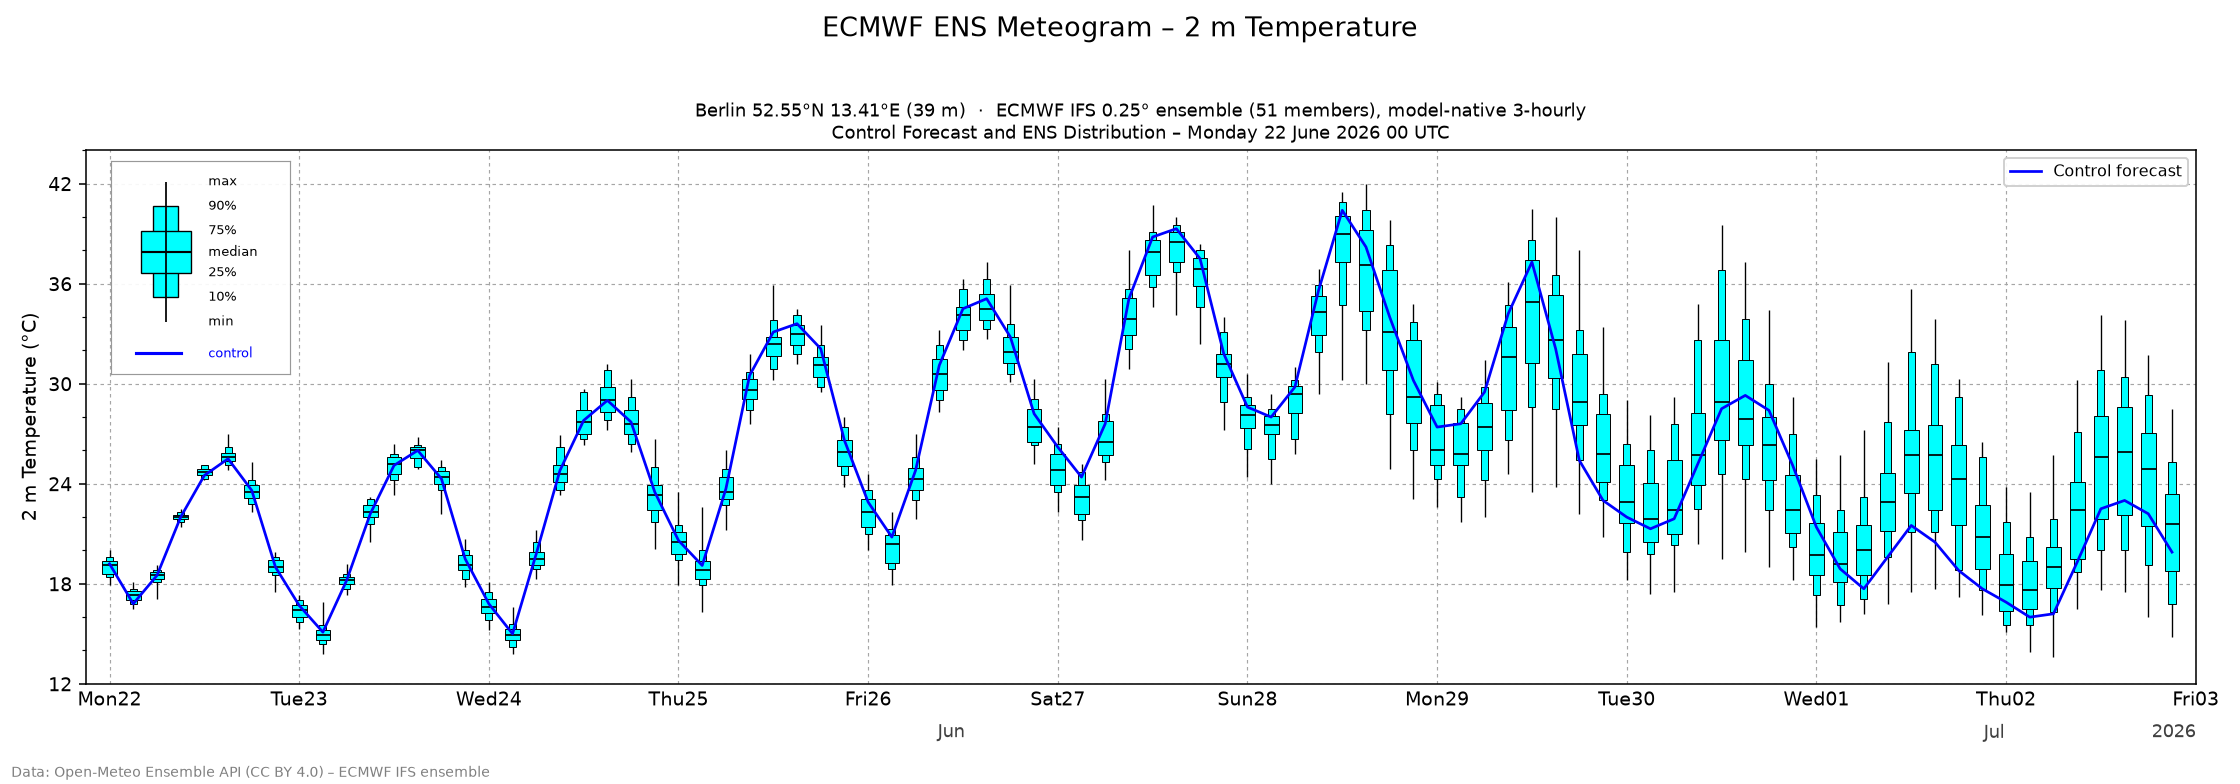
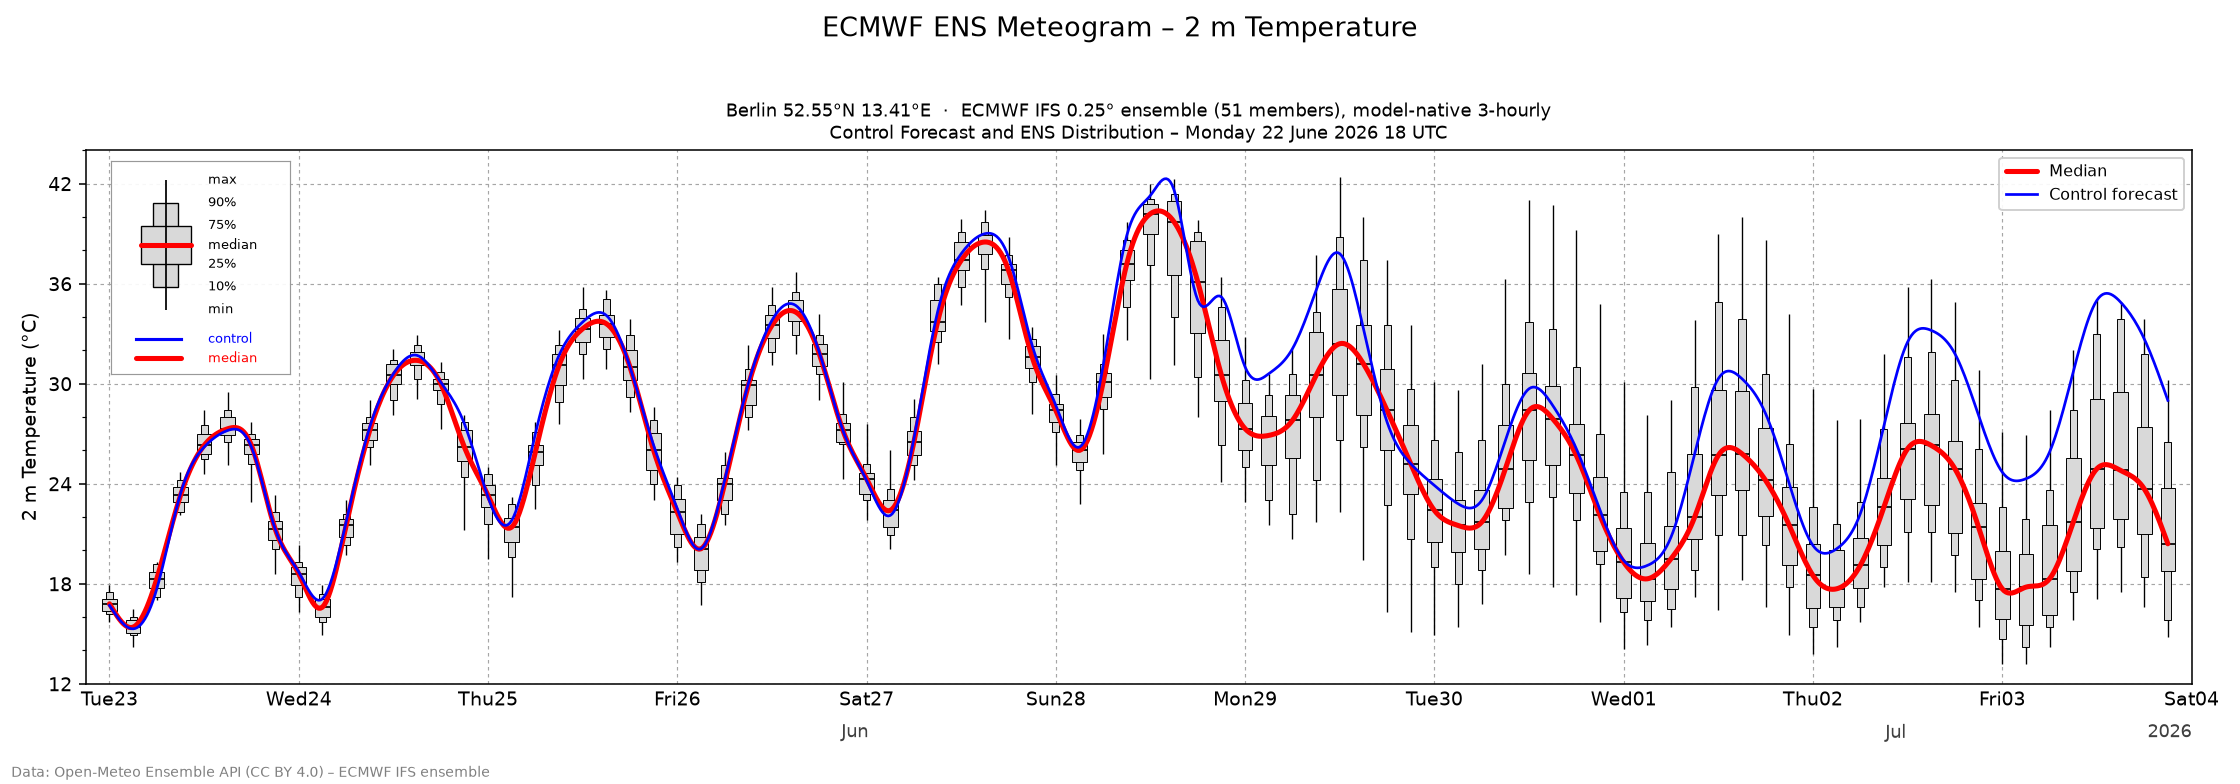
Recolour ensemble boxes from cyan to a light grey
Switches the box-and-whisker fill (wide and narrow boxes, and the legend
glyph) from cyan to a light neutral grey (#D9D9D9), so the red median and
blue control tracks read more clearly against the distribution. Updates
the README convention table and refreshes the example meteogram.

Claude-Session: https://claude.ai/code/session_01NyY1KADWpVNeRLwoCy74XA

diff --git a/meteogram.py b/meteogram.py
@@ -53,7 +53,7 @@ N_PERTURBED = 50  # perturbed members; the control is the base series (member 0)
 FINE_STEPS_PER_INTERVAL = 12
 
 # ECMWF-style colours.
-CYAN = "#00FFFF"      # ensemble box fill
+BOX_GREY = "#D9D9D9"  # ensemble box fill (light neutral grey)
 CONTROL_BLUE = "#0000FF"  # control forecast line
 MEDIAN_RED = "#FF0000"   # median tracking line
 
@@ -171,9 +171,9 @@ def _draw_legend_glyph(ax: plt.Axes) -> None:
     xc = 0.0
     ax.vlines(xc, levels["min"], levels["max"], color="black", linewidth=0.9)
     ax.bar(xc, levels["90%"] - levels["10%"], bottom=levels["10%"], width=1.0,
-           color=CYAN, edgecolor="black", linewidth=0.7)
+           color=BOX_GREY, edgecolor="black", linewidth=0.7)
     ax.bar(xc, levels["75%"] - levels["25%"], bottom=levels["25%"], width=2.0,
-           color=CYAN, edgecolor="black", linewidth=0.7)
+           color=BOX_GREY, edgecolor="black", linewidth=0.7)
     ax.hlines(levels["median"], xc - 1.0, xc + 1.0, color="black", linewidth=1.1)
     # Median tracking line key (thick red, drawn through the median level).
     ax.plot([xc - 1.0, xc + 1.0], [levels["median"], levels["median"]],
@@ -228,10 +228,10 @@ def plot(data: EnsembleData, output: str, station_name: str | None = None,
     # Whisker (min->max); the boxes drawn on top hide its central section.
     ax.vlines(x, p_min, p_max, color="black", linewidth=0.7, zorder=2)
     # Narrow boxes: 10th-90th percentile.
-    ax.bar(x, p90 - p10, bottom=p10, width=narrow, color=CYAN,
+    ax.bar(x, p90 - p10, bottom=p10, width=narrow, color=BOX_GREY,
            edgecolor="black", linewidth=0.5, zorder=3, align="center")
     # Wide box: 25th-75th percentile.
-    ax.bar(x, p75 - p25, bottom=p25, width=wide, color=CYAN,
+    ax.bar(x, p75 - p25, bottom=p25, width=wide, color=BOX_GREY,
            edgecolor="black", linewidth=0.5, zorder=4, align="center")
     # Median.
     ax.hlines(p50, x - wide / 2, x + wide / 2, color="black", linewidth=0.9,

diff --git a/README.md b/README.md
@@ -22,8 +22,8 @@ This matches [ECMWF's own meteograms](https://confluence.ecmwf.int/display/FUG/S
 
 | Element            | Meaning                                   |
 | ------------------ | ----------------------------------------- |
-| wide cyan box      | 25th–75th percentile (interquartile range)|
-| narrow cyan box    | 10th–25th and 75th–90th percentiles       |
+| wide grey box      | 25th–75th percentile (interquartile range)|
+| narrow grey box    | 10th–25th and 75th–90th percentiles       |
 | horizontal bar     | median (50th percentile)                  |
 | thin whisker line  | minimum and maximum across the ensemble   |
 | blue line          | control forecast                          |